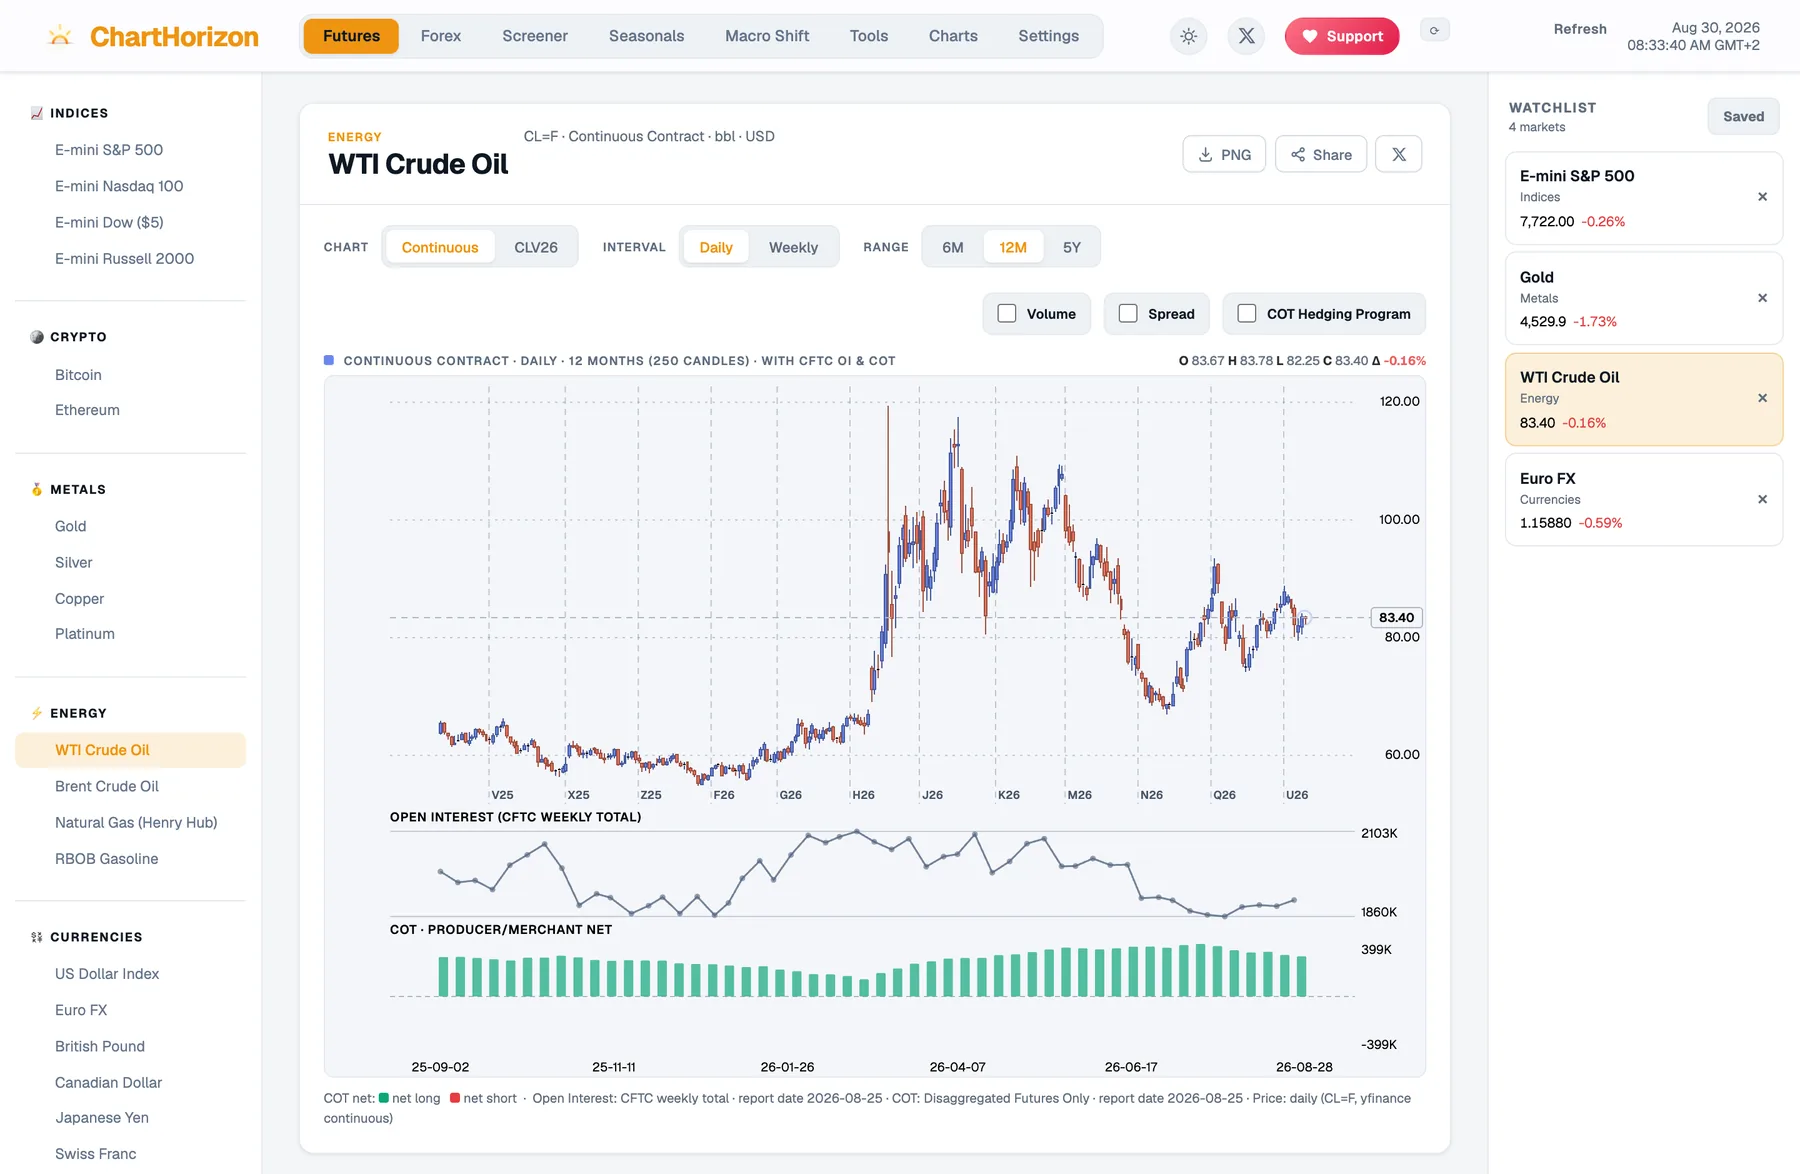
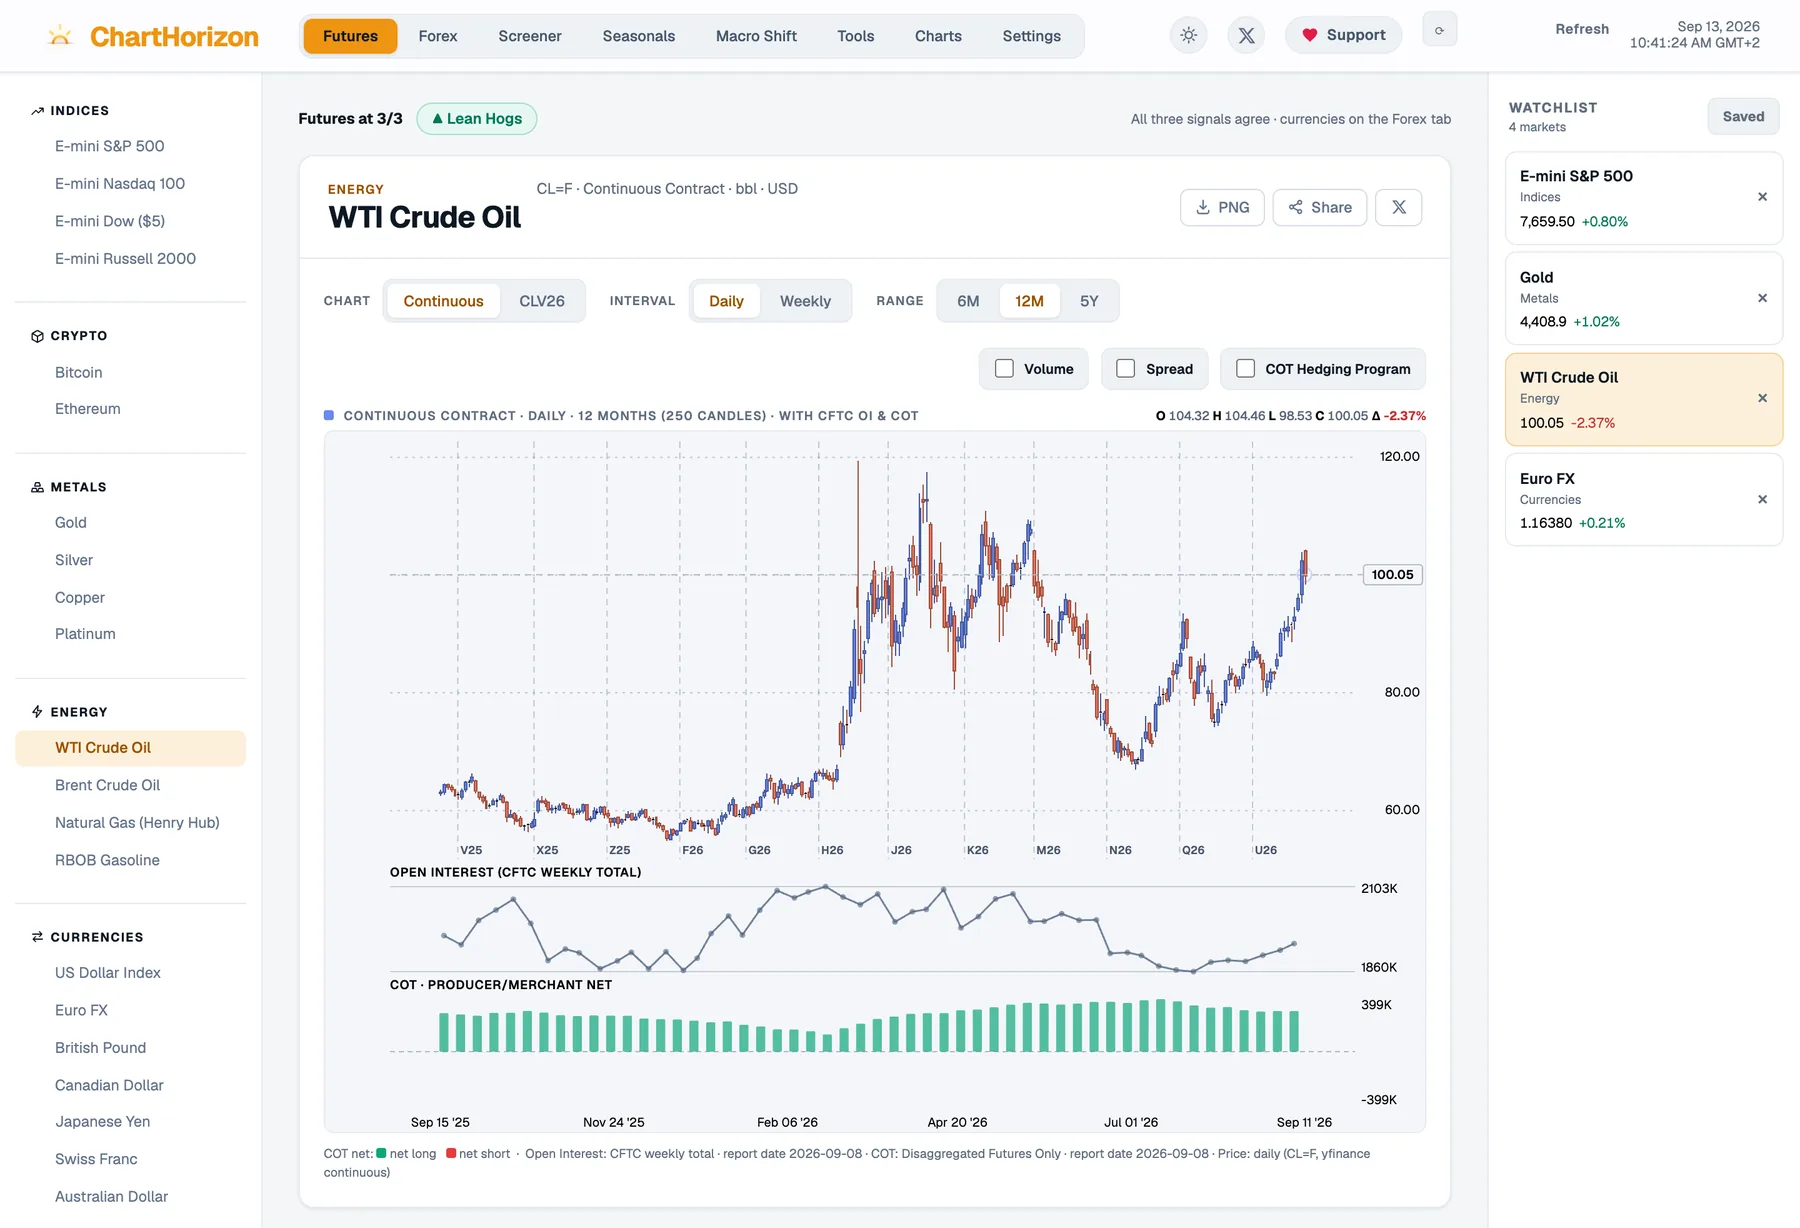
Dashboard page: re-shoot the board plates against 1.2.9
The five plates were last shot on 2026-08-30, before the dashboard's
Sep 12-13 rework: the Futures tab now carries its "Futures at 3/3" line
above the chart, the Screener a Setup column and a 3/3 filter, the
Charts tab a two-line head. Shot with ops/website-plates.sh against the
Sep 11 close, both editions from one session.

Two plates changed shape (futures 1174 -> 1228, macro 1050 -> 1060), so
their height attributes follow. The Screener alt names the Setup score
and no longer says term structure is tagged bullish/bearish/neutral --
it reads premium/discount.

Claude-Session: https://claude.ai/code/session_01DkHnHuBULREGiiRhSGNNJr

diff --git a/dashboard.html b/dashboard.html
@@ -151,7 +151,7 @@ dl_linux: "soon"        # not built yet — see the note above
 
 <div class="post-body">
 
-{% include board.html hero=true plate="board-futures" w=1800 h=1174
+{% include board.html hero=true plate="board-futures" w=1800 h=1228
    alt="The ChartHorizon dashboard reading WTI Crude Oil — a daily candlestick chart stacked over CFTC open interest and the commercials' net position, with the full market list down the left."
    caption="The board on one market: price, open interest and the commercials’ net, read together." %}
 
@@ -181,7 +181,7 @@ every market, every light, on demand.</p>
 hedging program and term structure — filterable and ranked, the whole desk on a single
 screen. It's the view that decides which market is worth a note.</p>
 {% include board.html plate="board-screener" w=1320 h=1012
-   alt="The dashboard's Screener: a table of every market it covers, across indices, crypto, metals and energy, each tagged bullish, bearish or neutral on seasonals, the hedging program and term structure."
+   alt="The dashboard's Screener: a table of every market it covers, across indices, crypto, metals and energy, each scored on how many of the three signals agree, then read on seasonals, the hedging program and term structure."
    caption="The Screener — every market, every signal, at a glance." %}
 
 <h2>The season, isolated</h2>
@@ -196,7 +196,7 @@ read on its own terms.</p>
 <p>Three markets on one timeline — the euro against sterling against the dollar; equities
 against bonds — so a divergence between things that usually move together shows up before
 the turn does. Quarter boundaries marked, the lines yours to draw.</p>
-{% include board.html plate="board-macro" w=1320 h=1050
+{% include board.html plate="board-macro" w=1320 h=1060
    alt="The dashboard's Macro Shift view: Euro FX, the British pound and the US Dollar Index stacked on one daily timeline so their paths can be read against each other for divergence."
    caption="Macro Shift — markets read against each other." %}
 
